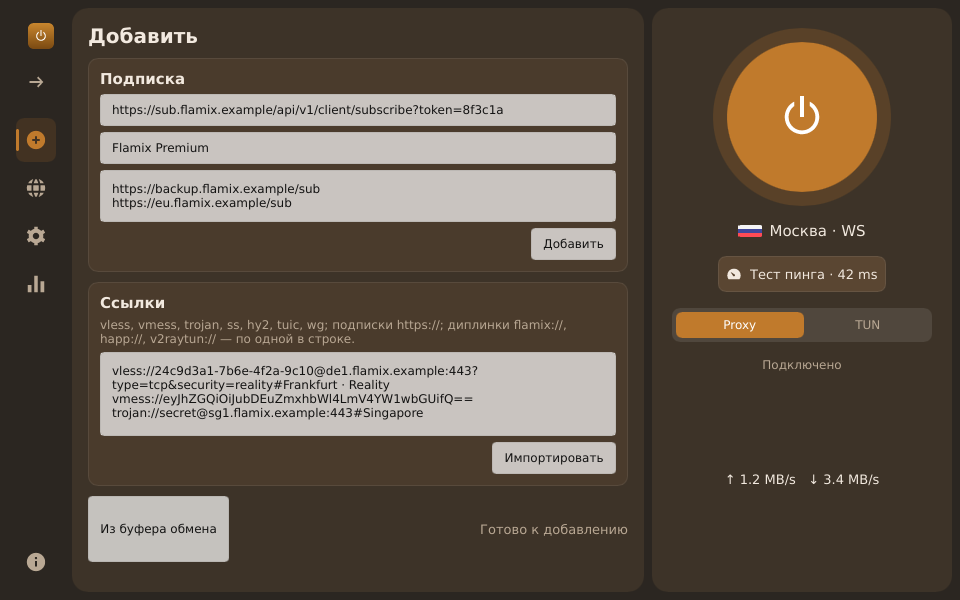
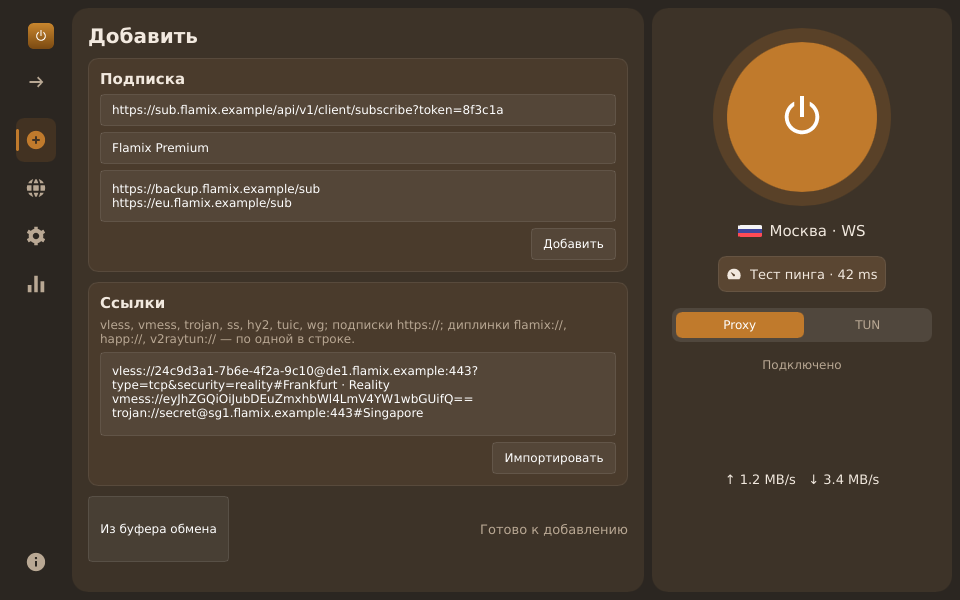
ui: make std-widgets follow the app theme (Palette colour scheme); regenerate screenshots

Changed region(s): [[0.0938, 0.15, 0.6562, 0.45], [0.0938, 0.57, 0.6562, 0.81], [0.0938, 0.81, 0.25, 0.96]]

diff --git a/app/flamix/src/pages/mod.rs b/app/flamix/src/pages/mod.rs
@@ -20,3 +20,20 @@ pub fn init(ui: &AppWindow, ctrl: Option<&Arc<Controller>>) {
     stats::init(ui, ctrl);
     about::init(ui, ctrl);
 }
+
+/// Switch the app to dark or light: our own `Theme` and, in lockstep, the std-widgets `Palette`
+/// (LineEdit/TextEdit/ComboBox/Button/… otherwise follow the OS colour scheme and look out of
+/// place on our custom background).
+pub fn apply_theme(ui: &AppWindow, dark: bool) {
+    use slint::ComponentHandle;
+    ui.global::<crate::Theme>().set_dark(dark);
+    // `ColorScheme` is exported through Slint's re-export module; the generated `Palette` global
+    // expects exactly this type.
+    use slint::private_unstable_api::re_exports::ColorScheme;
+    let scheme = if dark {
+        ColorScheme::Dark
+    } else {
+        ColorScheme::Light
+    };
+    ui.global::<crate::Palette>().set_color_scheme(scheme);
+}

diff --git a/app/flamix/src/pages/settings.rs b/app/flamix/src/pages/settings.rs
@@ -5,7 +5,7 @@
 //! mapping, core-affecting comparison) are unit-tested at the bottom.
 
 use crate::controller::Controller;
-use crate::{AppWindow, SettingsBridge, Theme};
+use crate::{AppWindow, SettingsBridge};
 use flamix_core::model::{ConnectionMode, Dns, Settings, Theme as SettingsTheme};
 use slint::{ComponentHandle, Timer, TimerMode};
 use std::cell::RefCell;
@@ -220,7 +220,7 @@ fn merge_owned(live: &Settings, src: &Settings) -> Settings {
 
 /// Mirror the theme into the UI immediately (System follows the app default = dark).
 fn apply_theme(ui: &AppWindow, theme: SettingsTheme) {
-    ui.global::<Theme>().set_dark(theme_is_dark(theme));
+    super::apply_theme(ui, theme_is_dark(theme));
 }
 
 fn theme_is_dark(theme: SettingsTheme) -> bool {

diff --git a/app/flamix/src/demo.rs b/app/flamix/src/demo.rs
@@ -567,7 +567,7 @@ pub fn screenshot(
     // The build host has no system fonts; use the bundled DejaVu family for the shot.
     ui.set_font_family("DejaVu Sans".into());
     ui.set_dark(!light);
-    ui.global::<crate::Theme>().set_dark(!light);
+    crate::pages::apply_theme(&ui, !light);
     ui.set_page(page);
     ui.set_state(ConnState::Connected);
     ui.set_status_text("Подключено".into());
